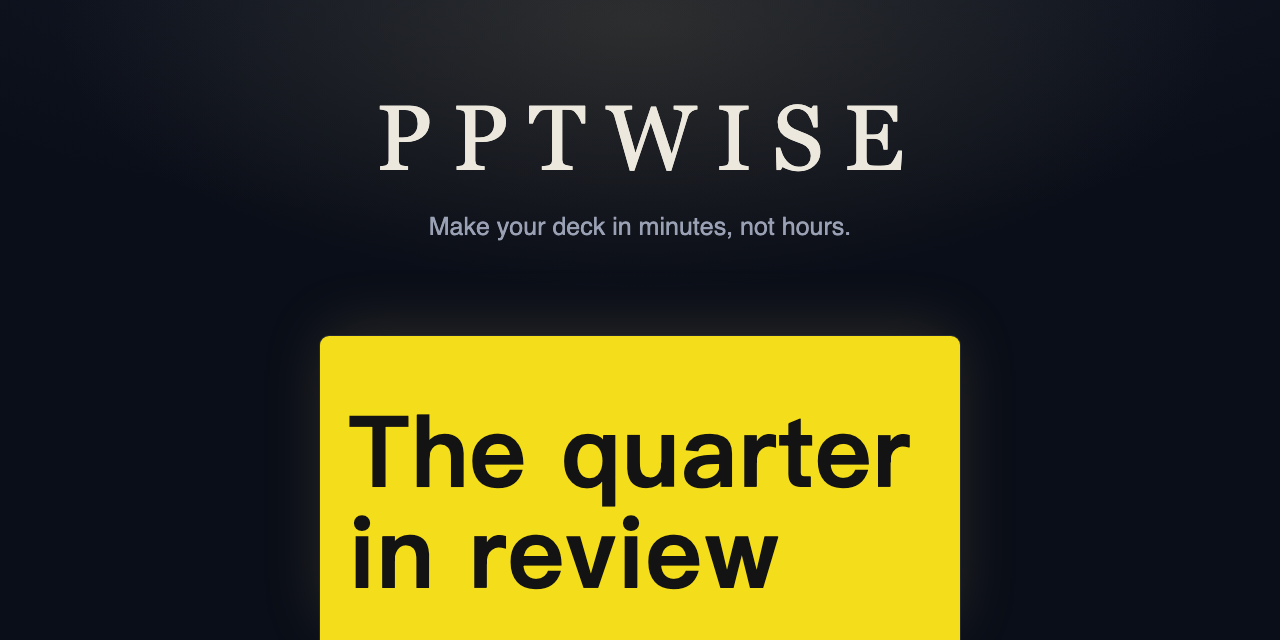
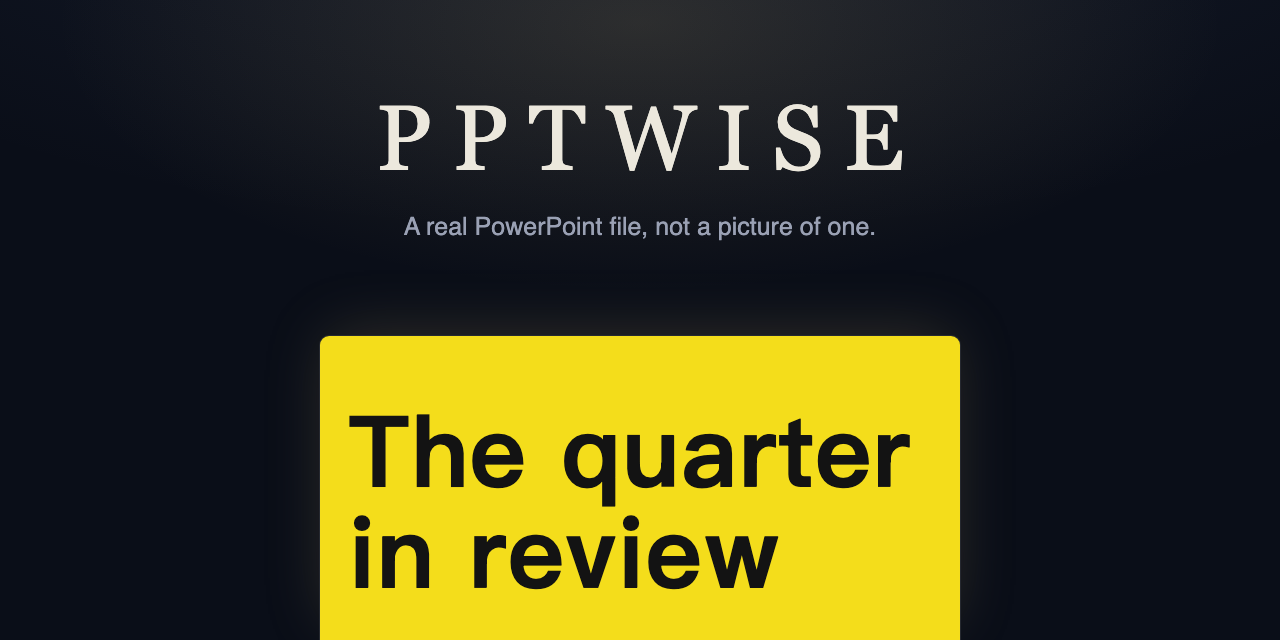
docs: sync the tagline across the README and the artwork
官网主标题已经换成真正的 PPT 不是一张图，README、banner 和社交预览图还停在旧那句，两边说的不是一句话。中文亮点第二条原来占着主标题这句，改成打开就能接着改。

Changed region(s): [[0.3125, 0.3438, 0.6875, 0.375]]

diff --git a/README.md b/README.md
@@ -1,8 +1,8 @@
-<p align="center"><img src="assets/banner.png" alt="pptwise — make your deck in minutes, not hours" width="100%"></p>
+<p align="center"><img src="assets/banner.png" alt="pptwise — a real PowerPoint file, not a picture of one" width="100%"></p>
 
 <h1 align="center">pptwise</h1>
 
-<p align="center"><b>Make your deck in minutes, not hours.</b></p>
+<p align="center"><b>A real PowerPoint file. Not a picture of one.</b></p>
 
 <p align="center">🥇 <b>The FIRST deck-generation plugin for DeepSeek Harness (dsh)</b> 🥇</p>
 
@@ -34,7 +34,7 @@ Issues are welcome any time. [Open one](https://github.com/liustack/pptwise/issu
 
 **⚡ Tell your AI what to cover, get the deck.** You bring the content, the engine handles layout, color, type size, and spacing. The same content renders the same deck every time, so there is nothing to redo and no luck involved.
 
-**✏ A real deck, not a picture of one.** Every heading, bullet, and chart bar opens in PowerPoint for you to retype and restyle. Chart and table figures are the exception: to change the numbers, have your AI rebuild that page. 24 ready-made styles, and you can pull the colors and fonts out of a deck your company already uses.
+**✏ Open it in PowerPoint and keep working.** Every heading, bullet, and chart bar opens in PowerPoint for you to retype and restyle. Chart and table figures are the exception: to change the numbers, have your AI rebuild that page. 24 ready-made styles, and you can pull the colors and fonts out of a deck your company already uses.
 
 **🔌 Installs into the agent you already use.** One command puts pptwise into DeepSeek Harness, Claude Code, or any agent that reads a skill folder (Codex and friends), and it knows how to build a deck the moment it lands.
 

diff --git a/README.zh-CN.md b/README.zh-CN.md
@@ -1,8 +1,8 @@
-<p align="center"><img src="assets/banner.png" alt="pptwise：PPT 不用等，马上就好" width="100%"></p>
+<p align="center"><img src="assets/banner.png" alt="pptwise：真正的 PPT，不是一张图" width="100%"></p>
 
 <h1 align="center">pptwise</h1>
 
-<p align="center"><b>PPT 不用等，马上就好。</b></p>
+<p align="center"><b>真正的 PPT，不是一张图。</b></p>
 
 <p align="center">🥇 <b>全网第一个 DeepSeek Harness PPT 生成插件</b> 🥇</p>
 
@@ -34,7 +34,7 @@
 
 **⚡ 跟 AI 说一句，PPT 就好了。** 你只管说要讲什么，版面、配色、字号、间距全由引擎排好。同一份内容做十遍是同一份，不用一遍遍重来碰运气。
 
-**✏ 交出来的是真 PPT，不是一张图。** 每个标题、每条要点、每根柱子都能在 PowerPoint 里点开改字改色。图表和表格里的数字是例外，换数字让 AI 重做一版。24 套现成风格，也能把你公司现有 PPT 里的配色和字体抽出来直接用。
+**✏ 打开就能接着改。** 每个标题、每条要点、每根柱子都能在 PowerPoint 里点开改字改色。图表和表格里的数字是例外，换数字让 AI 重做一版。24 套现成风格，也能把你公司现有 PPT 里的配色和字体抽出来直接用。
 
 **🔌 装进你正在用的 agent。** 一条命令装进 DeepSeek Harness、Claude Code，或任何读 skill 文件夹的 agent（Codex 等），装完就会用。
 
